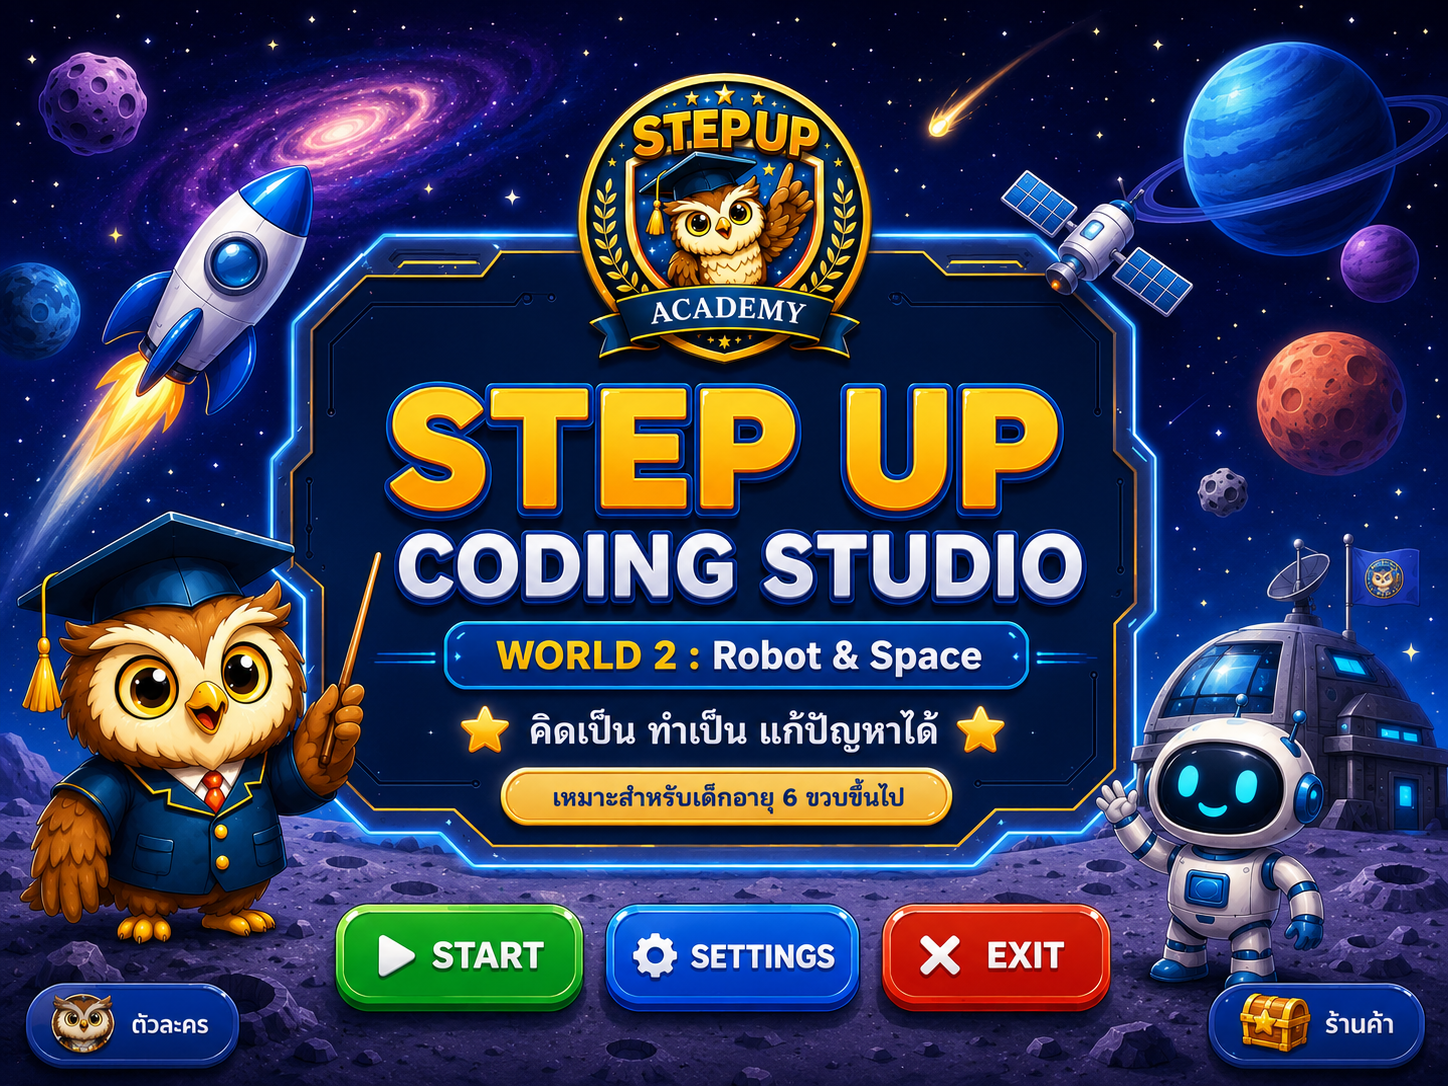
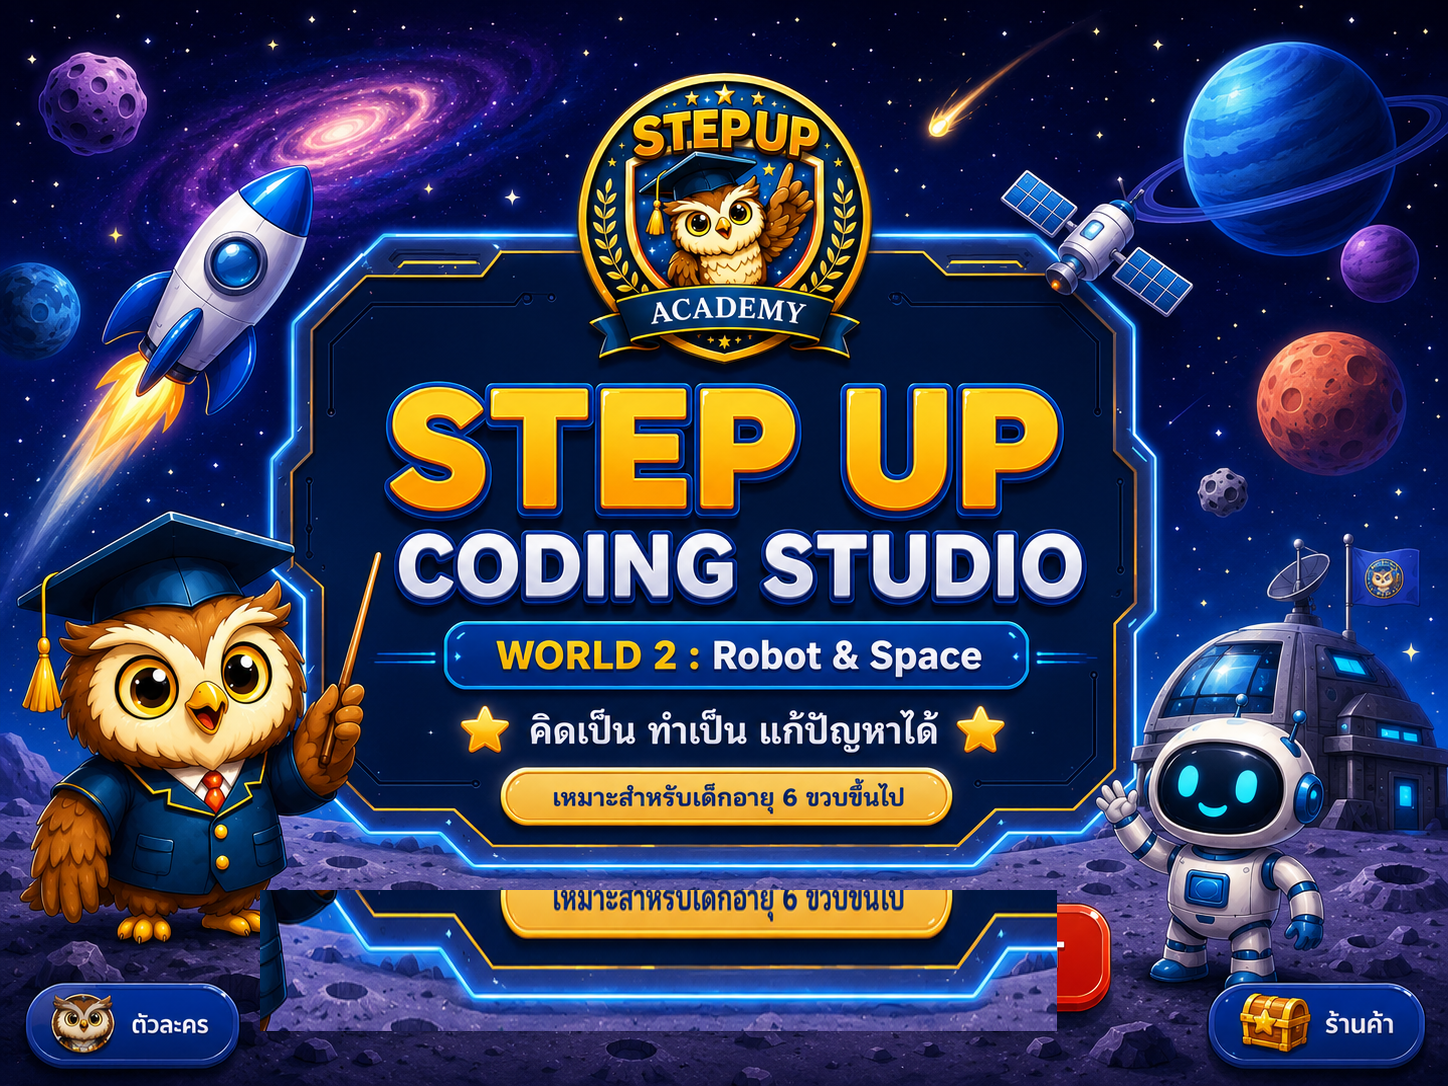
Fix World 2 Start button v21

Changed region(s): [[0.1554, 0.8204, 0.7459, 0.9724]]

diff --git a/index.html b/index.html
@@ -725,135 +725,74 @@ html,body{width:100%;height:100%;overflow:hidden}
 
 </style>
 
-<style id="world2-real-home-buttons-v19">
-/* Use real visible HTML buttons, matching World 1 behavior.
-   The original World 2 image remains the background artwork only. */
-.real-home-btn {
-  position: absolute !important;
-  z-index: 100 !important;
-  display: flex !important;
-  align-items: center !important;
-  justify-content: center !important;
-  gap: 8px !important;
-  border: 3px solid rgba(255,255,255,.75) !important;
-  border-radius: 18px !important;
-  color: #fff !important;
-  font-weight: 1000 !important;
-  font-size: clamp(14px,2vw,24px) !important;
-  line-height: 1 !important;
-  box-shadow: 0 7px 0 rgba(0,0,0,.28), 0 10px 24px rgba(0,0,0,.35) !important;
-  pointer-events: auto !important;
-  touch-action: manipulation !important;
-  -webkit-user-select: none !important;
-  user-select: none !important;
+<style id="clean-front-buttons-v21">
+.real-home-btn{
+  position:absolute!important;
+  z-index:200!important;
+  display:flex!important;
+  align-items:center!important;
+  justify-content:center!important;
+  gap:8px!important;
+  border:3px solid rgba(255,255,255,.75)!important;
+  border-radius:18px!important;
+  color:#fff!important;
+  font-weight:1000!important;
+  font-size:clamp(14px,2vw,24px)!important;
+  line-height:1!important;
+  box-shadow:0 7px 0 rgba(0,0,0,.28),0 10px 24px rgba(0,0,0,.35)!important;
+  pointer-events:auto!important;
+  touch-action:manipulation!important;
+  -webkit-user-select:none!important;
+  user-select:none!important;
 }
-.real-home-btn:active {
-  transform: translateY(4px) !important;
-  box-shadow: 0 3px 0 rgba(0,0,0,.28), 0 6px 12px rgba(0,0,0,.3) !important;
-}
-.start-real { background: linear-gradient(#49e34e,#0aa927) !important; }
-.settings-real { background: linear-gradient(#269cff,#086bd2) !important; }
-.exit-real { background: linear-gradient(#ff554d,#d91012) !important; }
+.real-home-btn:active{transform:translateY(3px)!important}
+.start-real{background:linear-gradient(#49e34e,#0aa927)!important}
+.settings-real{background:linear-gradient(#269cff,#086bd2)!important}
+.exit-real{background:linear-gradient(#ff554d,#d91012)!important}
 
-@media (orientation: landscape) and (max-height: 900px) {
-  #homeScreen {
-    min-height: 100dvh !important;
-    height: 100dvh !important;
-    padding: 0 !important;
-    overflow: hidden !important;
-    display: grid !important;
-    place-items: center !important;
+@media (orientation:landscape) and (max-height:900px){
+  #homeScreen{
+    min-height:100dvh!important;
+    height:100dvh!important;
+    padding:0!important;
+    overflow:hidden!important;
+    display:grid!important;
+    place-items:center!important;
   }
-  #homeScreen .home-wrap {
-    position: relative !important;
-    width: min(100vw, calc((100dvh - 6px) * 1.5)) !important;
-    height: auto !important;
-    max-width: 100vw !important;
-    max-height: calc(100dvh - 6px) !important;
-    aspect-ratio: 3 / 2 !important;
-    margin: 0 auto !important;
+  #homeScreen .home-wrap{
+    position:relative!important;
+    width:min(100vw,calc((100dvh - 6px)*1.5))!important;
+    aspect-ratio:3/2!important;
+    max-width:100vw!important;
+    max-height:calc(100dvh - 6px)!important;
+    margin:0 auto!important;
   }
-  #homeScreen .home-image {
-    width: 100% !important;
-    height: 100% !important;
-    object-fit: contain !important;
+  #homeScreen .home-image{
+    width:100%!important;
+    height:100%!important;
+    object-fit:contain!important;
   }
+  #homeScreen .start-hotspot{left:21%!important;top:84%!important;width:17%!important;height:10.5%!important}
+  #homeScreen .settings-hotspot{left:39%!important;top:84%!important;width:18%!important;height:10.5%!important}
+  #homeScreen .exit-hotspot{left:58%!important;top:84%!important;width:16%!important;height:10.5%!important}
 
-  /* Cover the artwork buttons exactly with real buttons. */
-  #homeScreen .start-hotspot {
-    left: 21.0% !important;
-    top: 85.2% !important;
-    width: 16.2% !important;
-    height: 10.2% !important;
-  }
-  #homeScreen .settings-hotspot {
-    left: 38.3% !important;
-    top: 85.2% !important;
-    width: 16.8% !important;
-    height: 10.2% !important;
-  }
-  #homeScreen .exit-hotspot {
-    left: 56.0% !important;
-    top: 85.2% !important;
-    width: 14.7% !important;
-    height: 10.2% !important;
-  }
-
-  #mapScreen {
-    min-height: 100dvh !important;
-    height: 100dvh !important;
-    padding: 8px 10px !important;
-    overflow: hidden !important;
-  }
-  #mapScreen .map-head { margin-bottom: 5px !important; gap: 8px !important; }
-  #mapScreen .map-title h1 { font-size: 22px !important; line-height: 1.05 !important; }
-  #mapScreen .map-title p { margin: 2px 0 !important; font-size: 11px !important; line-height: 1.2 !important; }
-  #mapScreen .iconbtn { padding: 7px 10px !important; font-size: 12px !important; }
-  #mapScreen .galaxy {
-    grid-template-columns: repeat(5,minmax(0,1fr)) !important;
-    gap: 7px !important;
-    padding: 5px !important;
-  }
-  #mapScreen .episode-node {
-    min-height: 0 !important;
-    height: calc((100dvh - 104px)/4) !important;
-    padding: 6px !important;
-    border-radius: 13px !important;
-    gap: 2px !important;
-  }
-  #mapScreen .episode-node .icon { font-size: 28px !important; line-height: 1 !important; }
-  #mapScreen .episode-node b { font-size: 11px !important; line-height: 1.1 !important; }
-  #mapScreen .episode-node small { font-size: 9px !important; line-height: 1.1 !important; }
-  #mapScreen .progress-card { display: none !important; }
-}
-</style>
-
-
-<style id="front-buttons-only-v20">
-@media (orientation: landscape) {
-  #homeScreen .home-wrap::after {
-    content: "";
-    position: absolute;
-    left: 19.5%;
-    top: 83.6%;
-    width: 52.8%;
-    height: 13.2%;
-    z-index: 50;
-    pointer-events: none;
-    border-radius: 18px;
-    background:
-      radial-gradient(circle at 50% 120%, rgba(36,48,101,.96), rgba(7,16,50,.98) 58%, rgba(4,10,34,.99));
-    box-shadow: inset 0 0 20px rgba(25,80,180,.20);
-  }
-  #homeScreen .real-home-btn {
-    z-index: 100 !important;
-  }
+  #mapScreen{min-height:100dvh!important;height:100dvh!important;padding:8px 10px!important;overflow:hidden!important}
+  #mapScreen .map-head{margin-bottom:5px!important;gap:8px!important}
+  #mapScreen .map-title h1{font-size:22px!important;line-height:1.05!important}
+  #mapScreen .map-title p{margin:2px 0!important;font-size:11px!important;line-height:1.2!important}
+  #mapScreen .iconbtn{padding:7px 10px!important;font-size:12px!important}
+  #mapScreen .galaxy{grid-template-columns:repeat(5,minmax(0,1fr))!important;gap:7px!important;padding:5px!important}
+  #mapScreen .episode-node{min-height:0!important;height:calc((100dvh - 104px)/4)!important;padding:6px!important;border-radius:13px!important;gap:2px!important}
+  #mapScreen .episode-node .icon{font-size:28px!important;line-height:1!important}
+  #mapScreen .episode-node b{font-size:11px!important;line-height:1.1!important}
+  #mapScreen .episode-node small{font-size:9px!important;line-height:1.1!important}
+  #mapScreen .progress-card{display:none!important}
 }
 </style>
 
 </head>
 <body>
-<section id="homeScreen" class="screen home-screen"><div class="home-wrap"><img class="home-image" src="world2_space_home_landscape.png" alt="World 2 Home"><div id="continueBanner" class="continue-banner hidden" style="display:none!important"></div><button id="startHotspot" class="hotspot start-hotspot real-home-btn start-real" type="button"><span class="play-icon">▶</span><span>START</span></button><button id="settingsHotspot" class="hotspot settings-hotspot real-home-btn settings-real" type="button"><span class="gear-icon">⚙</span><span>SETTINGS</span></button><button id="exitHotspot" class="hotspot exit-hotspot real-home-btn exit-real" type="button"><span class="x-icon">✕</span><span>EXIT</span></button></div></section>
+<section id="homeScreen" class="screen home-screen"><div class="home-wrap"><img class="home-image" src="world2_space_home_landscape.png" alt="World 2 Home"><div id="continueBanner" class="continue-banner hidden" style="display:none!important"></div><button id="startHotspot" class="hotspot start-hotspot real-home-btn start-real" type="button"><span>▶</span><span>START</span></button><button id="settingsHotspot" class="hotspot settings-hotspot real-home-btn settings-real" type="button"><span>⚙</span><span>SETTINGS</span></button><button id="exitHotspot" class="hotspot exit-hotspot real-home-btn exit-real" type="button"><span>✕</span><span>EXIT</span></button></div></section>
 <section id="mapScreen" class="screen map-screen hidden"><div class="map-head"><div class="map-title"><h1>🌌 GALAXY MAP</h1><p>เล่นตามลำดับทั้ง 20 Episodes เพื่อผ่าน World 2 • ✅ ตรวจเส้นทางครบทุกด่านแล้ว</p></div><div class="map-actions"><button id="resetProgressBtn" class="iconbtn">เริ่มใหม่</button><button id="mapHomeBtn" class="iconbtn">HOME</button></div></div><div id="galaxy" class="galaxy"></div><div class="progress-card card"><div style="display:flex;justify-content:space-between;margin-bottom:8px"><b>World 2 Progress</b><span id="progressText">0/20</span></div><div class="progress-track"><div id="progressFill" class="progress-fill"></div></div></div>
 <div class="progress-card card" style="margin-top:10px">
   <b>✅ QA Route Check</b>
@@ -995,6 +934,34 @@ updateHome();renderMap();
     updateButton();
   }
   if(document.readyState==='loading') document.addEventListener('DOMContentLoaded',init); else init();
+})();
+</script>
+
+
+<script id="clean-start-handler-v21">
+(function(){
+  function openMap(e){
+    if(e){e.preventDefault();e.stopPropagation();}
+    var home=document.getElementById('homeScreen');
+    var map=document.getElementById('mapScreen');
+    var game=document.getElementById('gameScreen');
+    if(home) home.classList.add('hidden');
+    if(game) game.classList.add('hidden');
+    if(map){map.classList.remove('hidden');map.scrollTop=0;}
+  }
+  function init(){
+    var start=document.getElementById('startHotspot');
+    if(!start) return;
+    start.onclick=null;
+    start.ontouchstart=null;
+    start.ontouchend=null;
+    start.onpointerdown=null;
+    start.addEventListener('click',openMap,false);
+    start.addEventListener('touchend',openMap,{passive:false});
+    start.addEventListener('pointerup',openMap,false);
+  }
+  if(document.readyState==='loading') document.addEventListener('DOMContentLoaded',init,{once:true});
+  else init();
 })();
 </script>
 